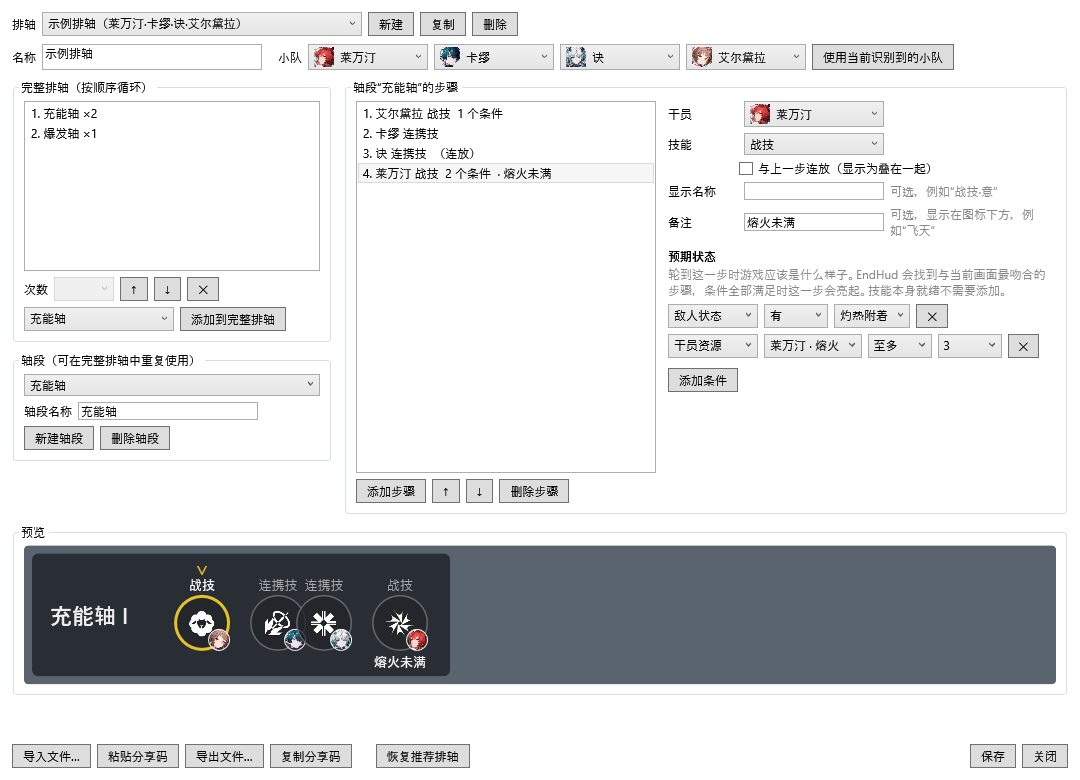
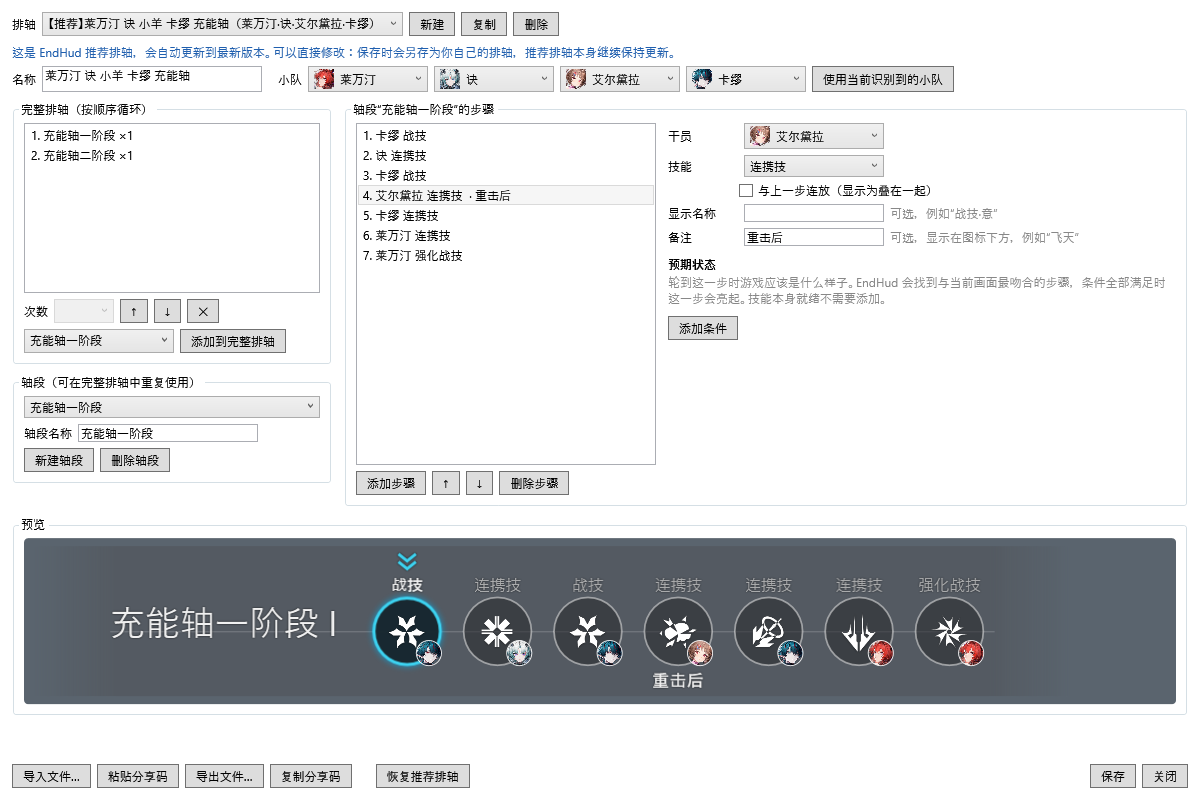
Recommended rotation: 莱万汀 诀 小羊 卡缪 充能轴, from a guide's charts
rotations/laevatain-arcane-ardelia-camille.json, transcribed from the owner's
screenshots of a Bilibili guide's rotation charts (诀 is 李织烟):

- 充能轴一阶段: 卡缪 战技, 诀 连携技, 卡缪 战技, 小羊 连携技, 卡缪 连携技,
  莱万汀 连携技, 莱万汀 强化战技
- 充能轴二阶段 (the guide's subtitle names it): 卡缪 战技, 诀 连携技, 诀 终结技,
  小羊 连携技, 卡缪 连携技, 莱万汀 连携技, 莱万汀 强化战技, 小羊 战技

The charts' 重击 (heavy attack) steps are left out, since EndHud tracks only
battle skills, combos and ultimates; the 小羊 combo it sets up says "重击后".
No expected-state conditions: the charts give none.

The editor's preview now shrinks to fit (the larger strip was cut off), and
the README's editor picture shows this rotation.

diff --git a/src/EndHud/RotationEditor.xaml b/src/EndHud/RotationEditor.xaml
@@ -153,7 +153,10 @@
         <!-- Preview -->
         <GroupBox Grid.Row="3" Header="{DynamicResource Editor.Preview}">
             <Border Background="#5A646E" Padding="8" CornerRadius="4">
-                <ContentControl x:Name="PreviewHost" HorizontalAlignment="Left" />
+                <!-- Shrinks to fit: the strip is drawn at its in-game size. -->
+                <Viewbox Stretch="Uniform" StretchDirection="DownOnly" HorizontalAlignment="Left" MaxHeight="150">
+                    <ContentControl x:Name="PreviewHost" />
+                </Viewbox>
             </Border>
         </GroupBox>
 

diff --git a/rotations/README.md b/rotations/README.md
@@ -12,7 +12,9 @@ fixed by committing a file, without a new release.
   and this one keeps updating. A player who deletes one doesn't get it back until they press
   "restore recommended rotations" in the editor.
 
-There are none yet.
+| File | Squad | Source |
+|---|---|---|
+| `laevatain-arcane-ardelia-camille.json` | 莱万汀, 诀 (李织烟), 艾尔黛拉 (小羊), 卡缪 | a Bilibili guide's rotation charts (充能轴 一阶段 / 二阶段); its 重击 steps are left out, since EndHud tracks only battle skills, combos and ultimates |
 
 `dotnet test` checks every file here: it must be readable by this build, its id must match its file
 name, and every operator in it must exist.
